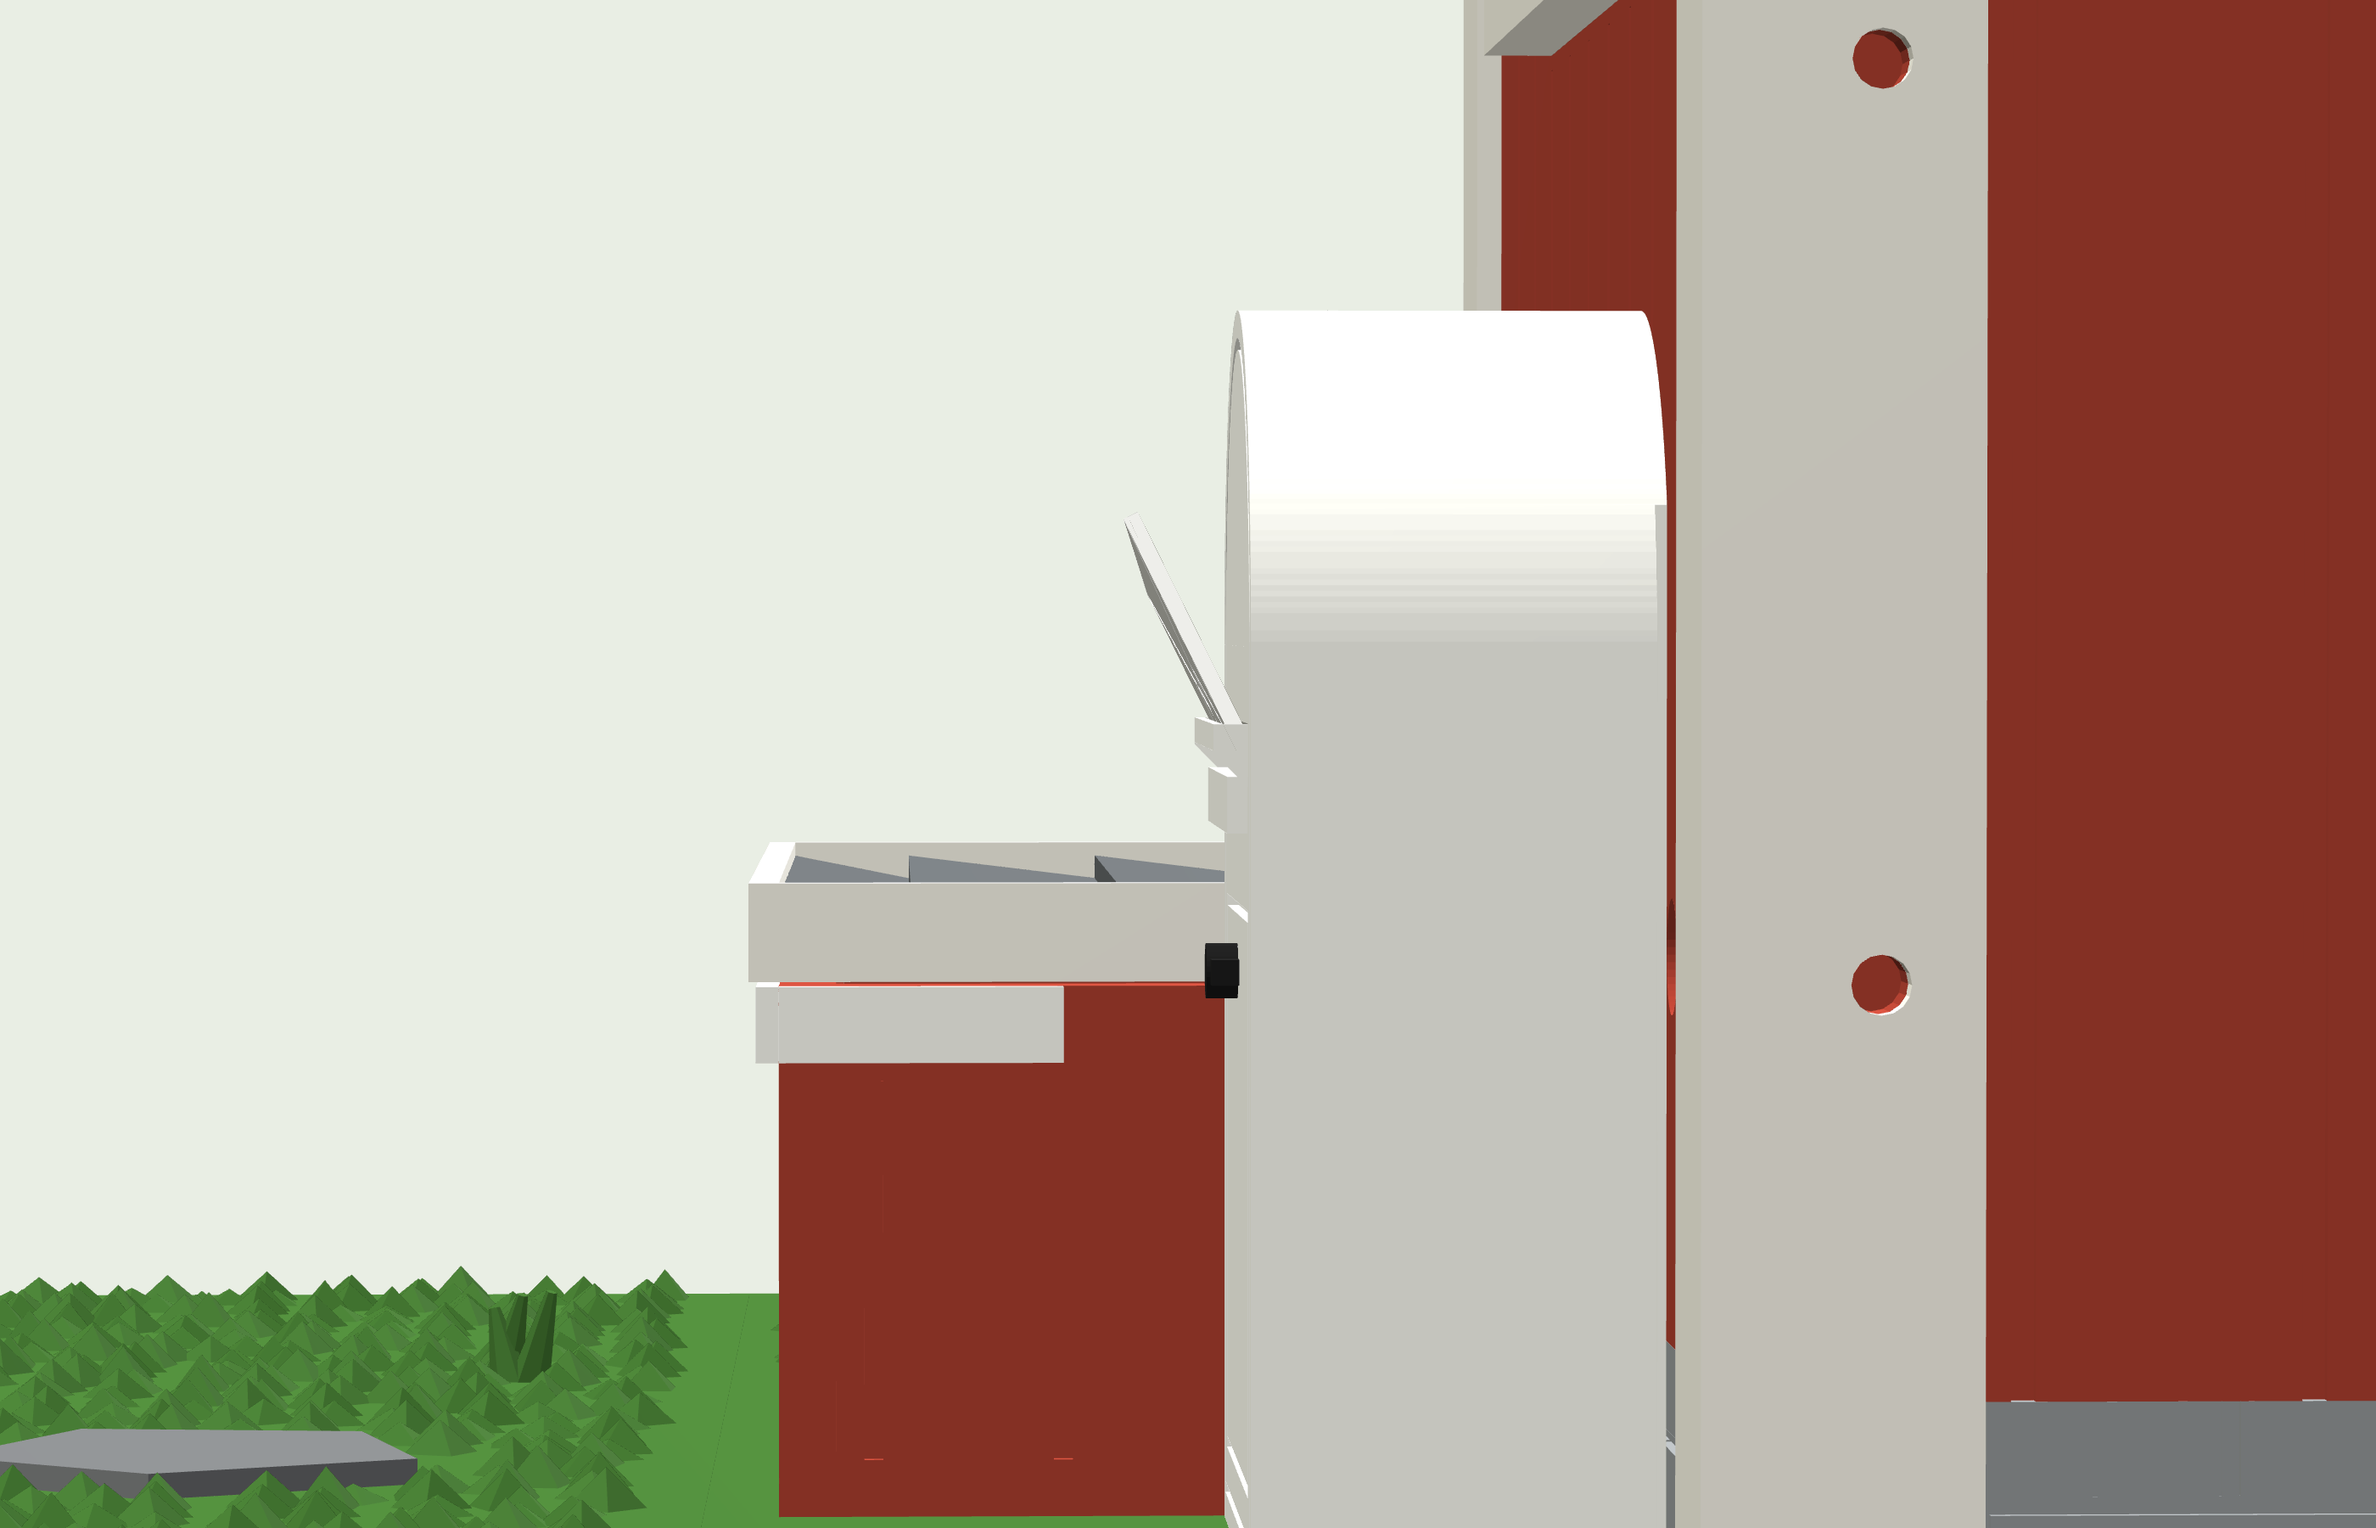
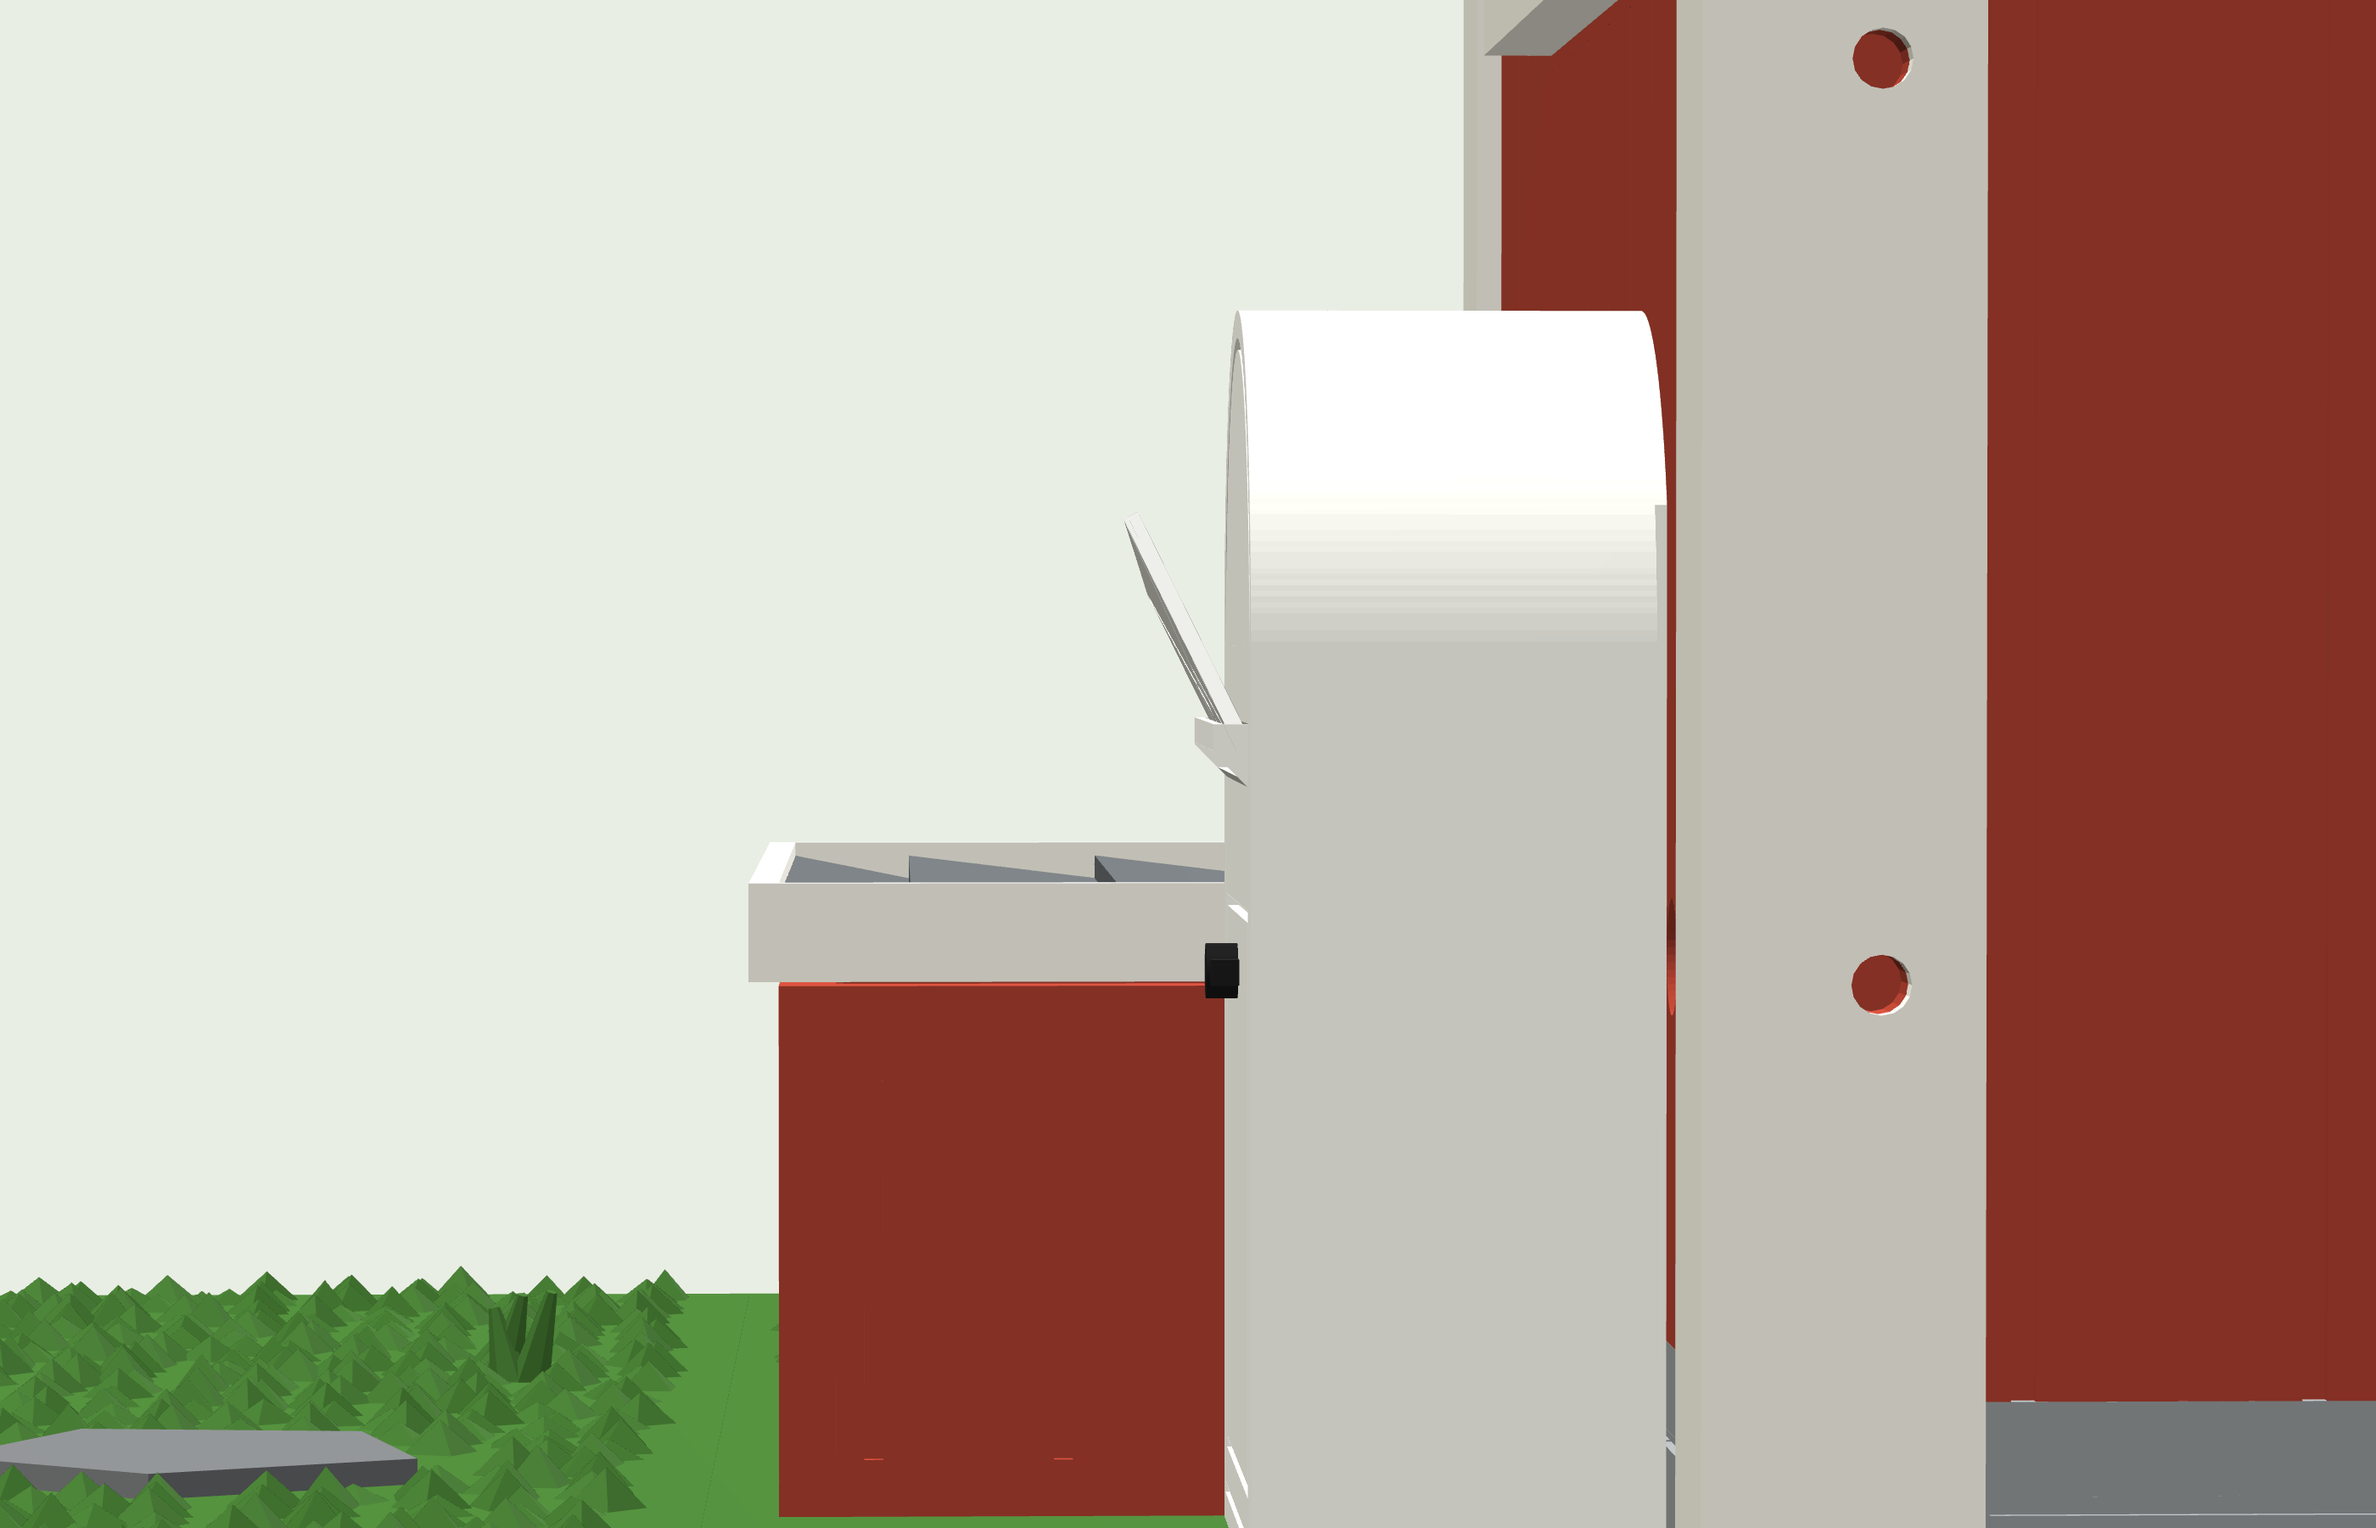
Brevlåda 9.16: ingen vit kant runt skålen, ett brevinkast
Den vita kanten runt LENNART-skålens överkant är borttagen (luckan har
en vit list). Lagerklotsen står helt på skålens röda vägg. Den upphöjda
klaffen under brevinkastets springa är borttagen, den såg ut som ett
andra inkast.

Claude-Session: https://claude.ai/code/session_018xksXR9gb4yYHdCGmvWeKU

Changed region(s): [[0.3107, 0.6222, 0.4661, 0.7156], [0.4971, 0.4978, 0.5282, 0.5289]]

diff --git a/cad/brevlada.py b/cad/brevlada.py
@@ -29,7 +29,9 @@ och dess packning (09b). Mått i husets koordinater (samma som 3D-vyn).
   * Locket (09, 9.10): rundad båge med samma bredd och djup som lådan, sitter direkt på väggarna
     så att det ser ut som en del av brevlådan (som en Habo). Två läppar på sidornas insida styr
     det. Ingen packning. Öppet bak mot husväggen. Skrivs ut med framsidan mot plattan, utan stöd.
-  * Framsidan: inramning (spår) längs sidor och båge, dörr, brevinkast under bågen.
+  * Framsidan: inramning (spår) längs sidor och båge, dörr, brevinkast under bågen (9.16: bara läppen med
+    springan, ingen upphöjd klaff under).
+  * 9.16: den vita kanten runt LENNART-skålens överkant (z 24-28) är borttagen; luckans vita list räcker.
 Kör:  python3 brevlada.py <07_farstukvist_vit.stl med en tidigare brevlåda> <utkatalog>
 (den gamla brevlådan är en egen kropp i filen och byts ut)
 """
@@ -106,7 +108,7 @@ lip_ch = trimesh.convex.convex_hull(np.vstack([box(X0 + 3.6, X1 - 3.6, fr - 1.7,
                                                box(X0 + 3.6, X1 - 3.6, fr - 0.01, fr, 39.1, 39.11).vertices]))
 # handtaget (svart): rund knopp med en tvärslå, sticker ut 1,6 mm, sitter 0,4 mm in i väggen
 lock = U([ycyl(1.4, fr - 1.6, fr + 0.4, XC, 29.5, 32), box(XC - 2.8, XC + 2.8, fr - 1.4, fr + 0.4, 28.85, 30.15)])
-body = D(U([body, slot, lip, lip_ch]), [lock])
+body = D(U([body, lip, lip_ch]), [lock])          # 9.16: den upphöjda klaffen (slot) under springan bort, den såg ut som ett andra inkast
 # hörnlisten (x 73-, sticker ut till y -1,6): högra väggens bakkant dras in till y -2,6 där
 PIL = box(72.5, X1 + 1, -2.6, 1.0, -1, ZT + 30)
 body = D(body, [PIL])
@@ -215,6 +217,9 @@ parts = vit.split(only_watertight=False)
 old = [p for p in parts if p.bounds[0][0] > 27.0 and p.bounds[1][0] > 50.0]
 assert len(old) == 1, len(old)
 keep = [p for p in parts if p is not old[0]]
+kant = [p for p in keep if p.bounds[0][2] > 23.9 and p.bounds[1][2] < 28.01 and p.extents[0] > 80]
+assert len(kant) == 1, len(kant)
+keep = [p for p in keep if p is not kant[0]]                                 # 9.16: vita kanten runt skålens överkant bort (luckan har en vit list)
 b_stl = body.copy(); b_stl.apply_translation(TO_STL)
 new_vit = U(keep + [b_stl])
 assert new_vit.is_watertight
